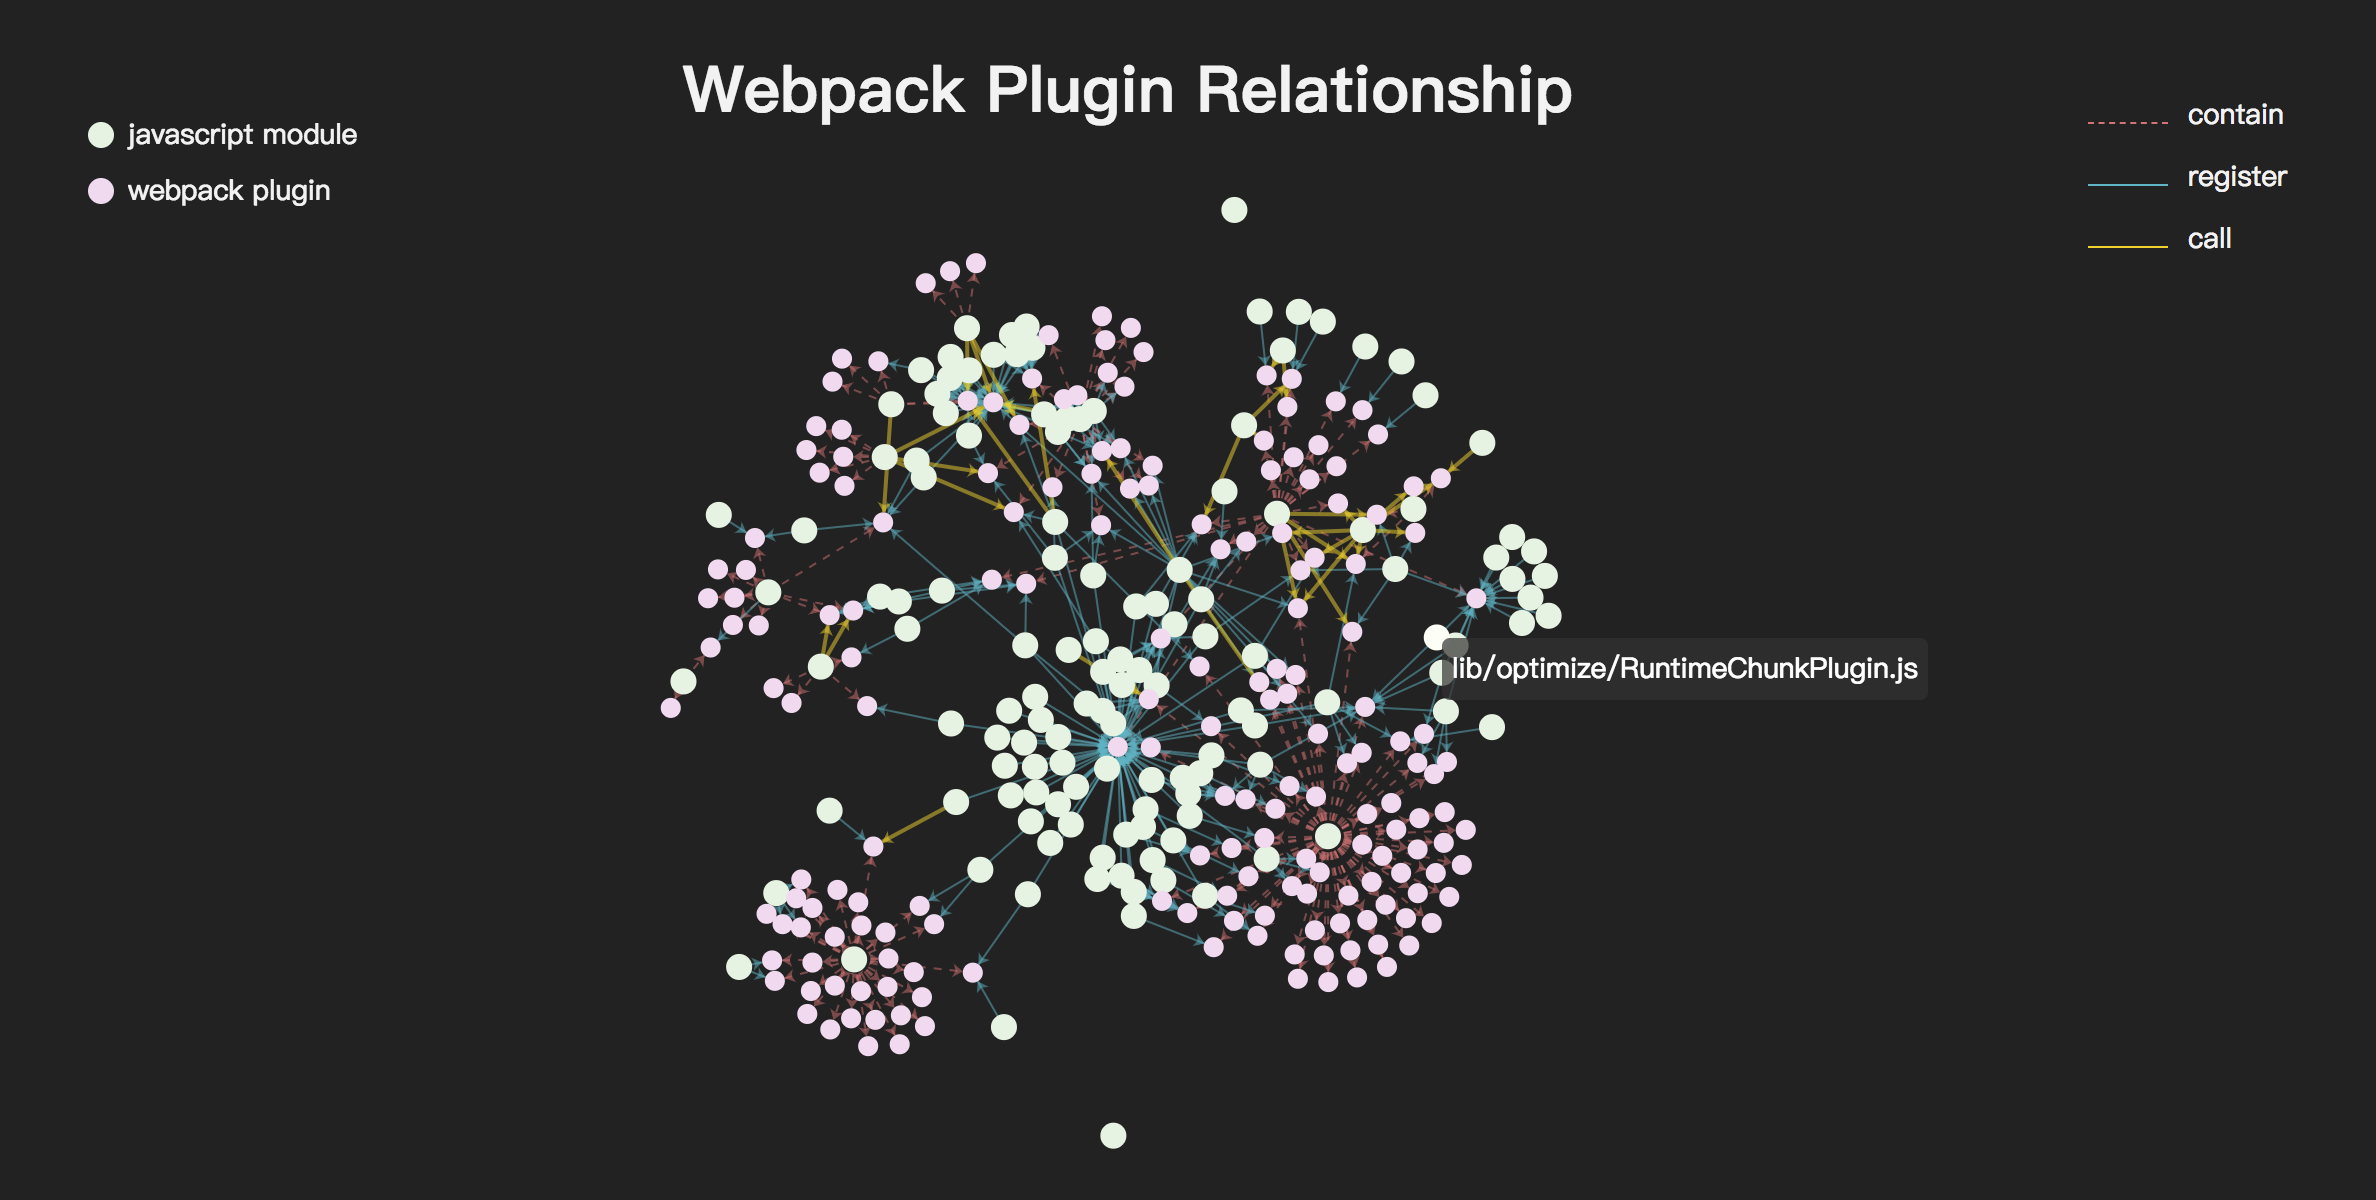
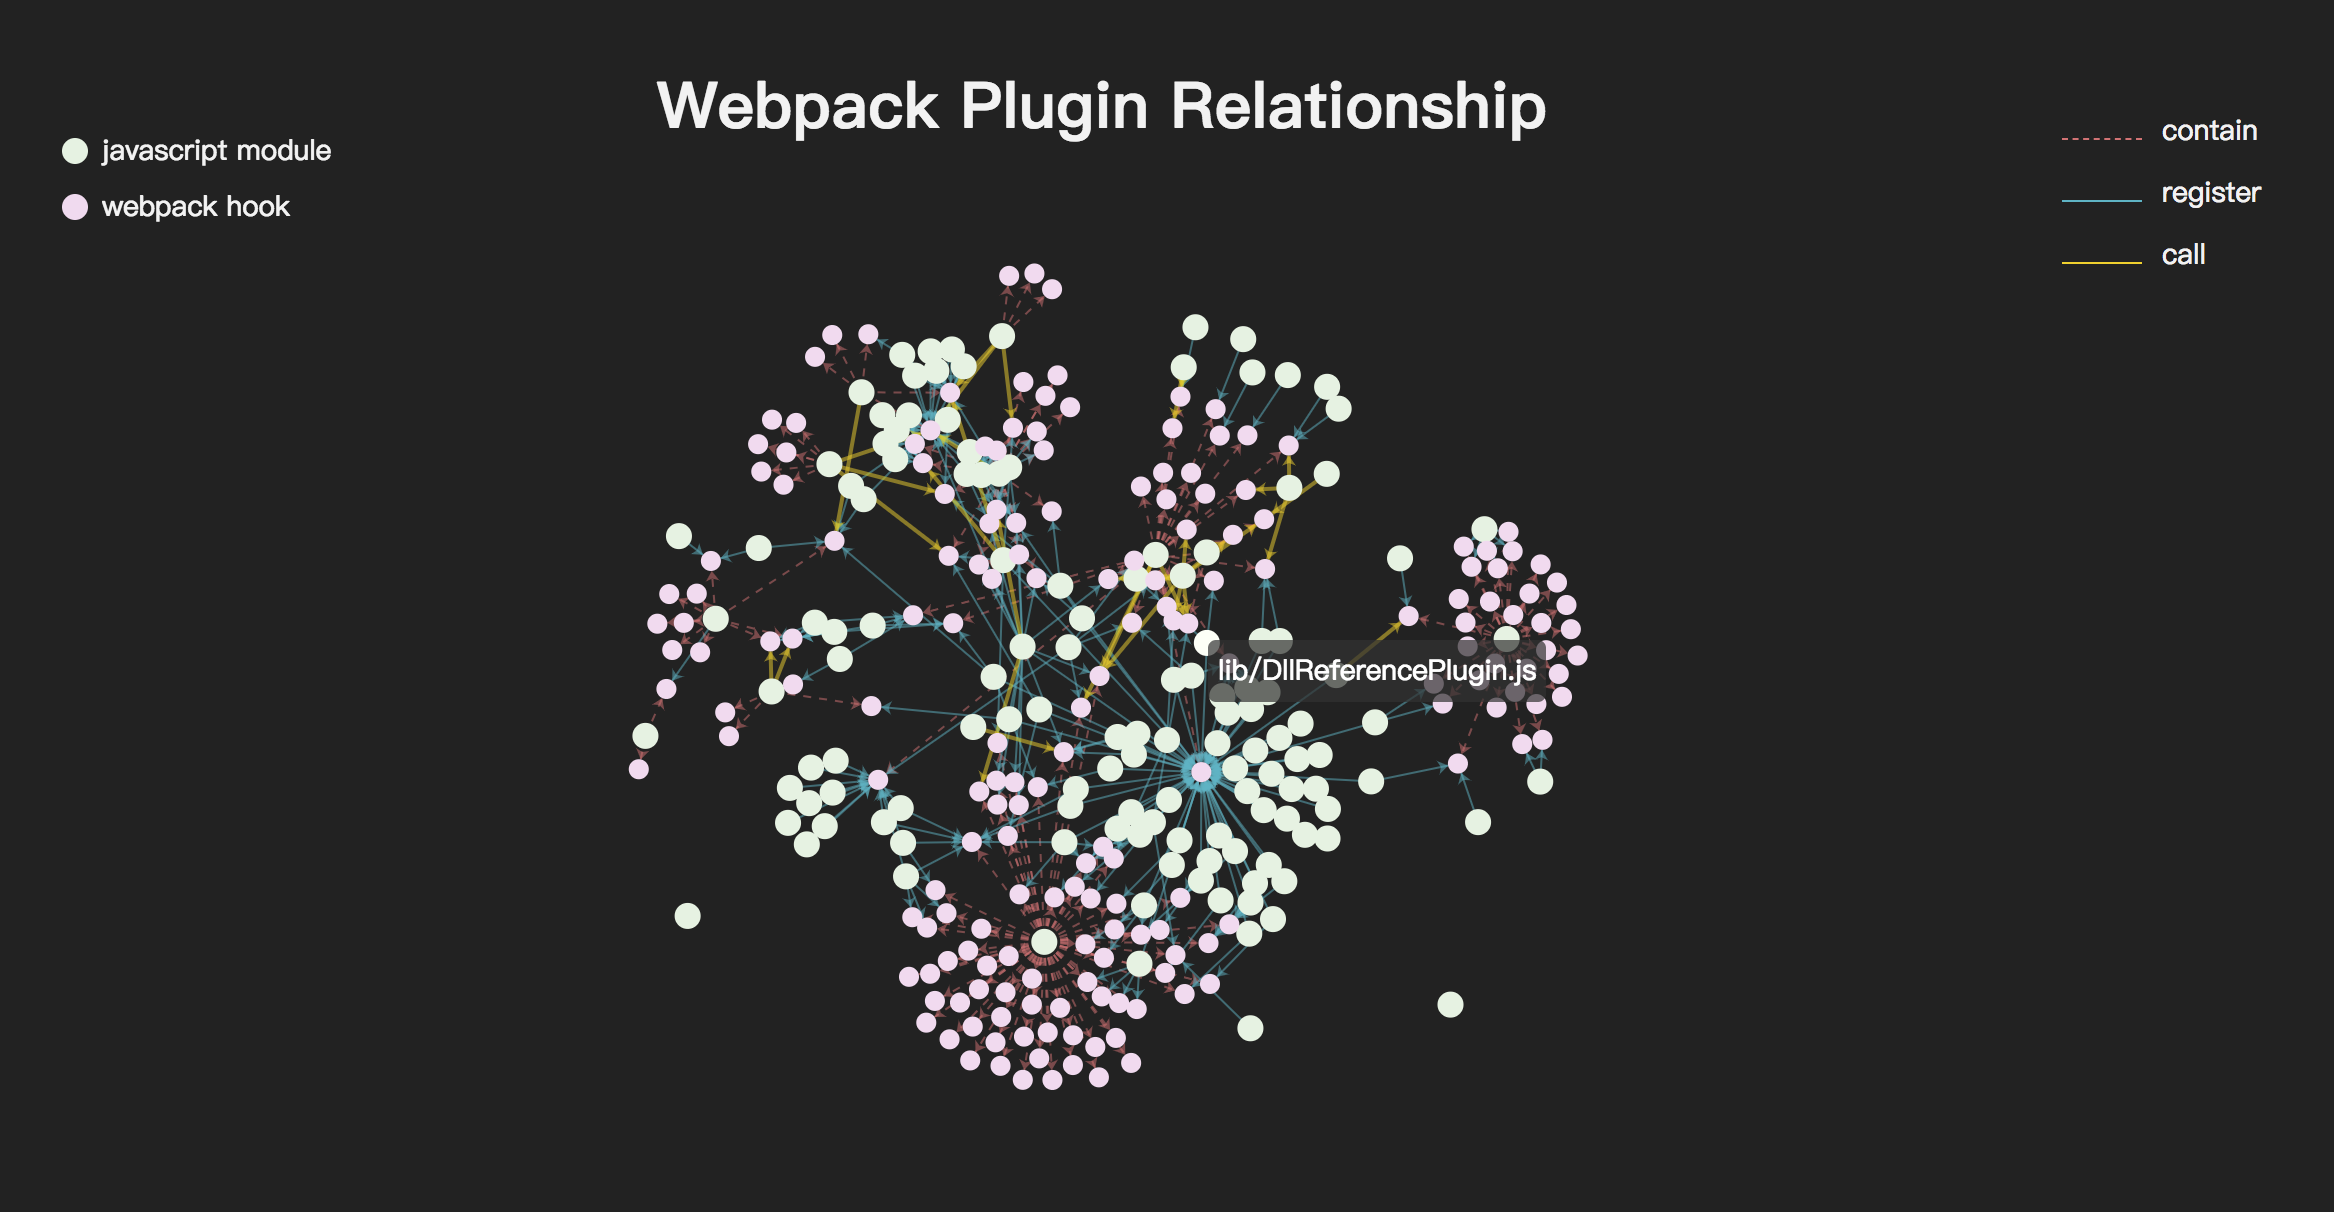
fix(html): rename

diff --git a/static/index.html b/static/index.html
@@ -72,7 +72,7 @@
             content: 'javascript module';
         }
         .category .hook::after {
-            content: 'webpack plugin';
+            content: 'webpack hook';
         }
     </style>
     <title>Webpack Plugin Relationship</title>
